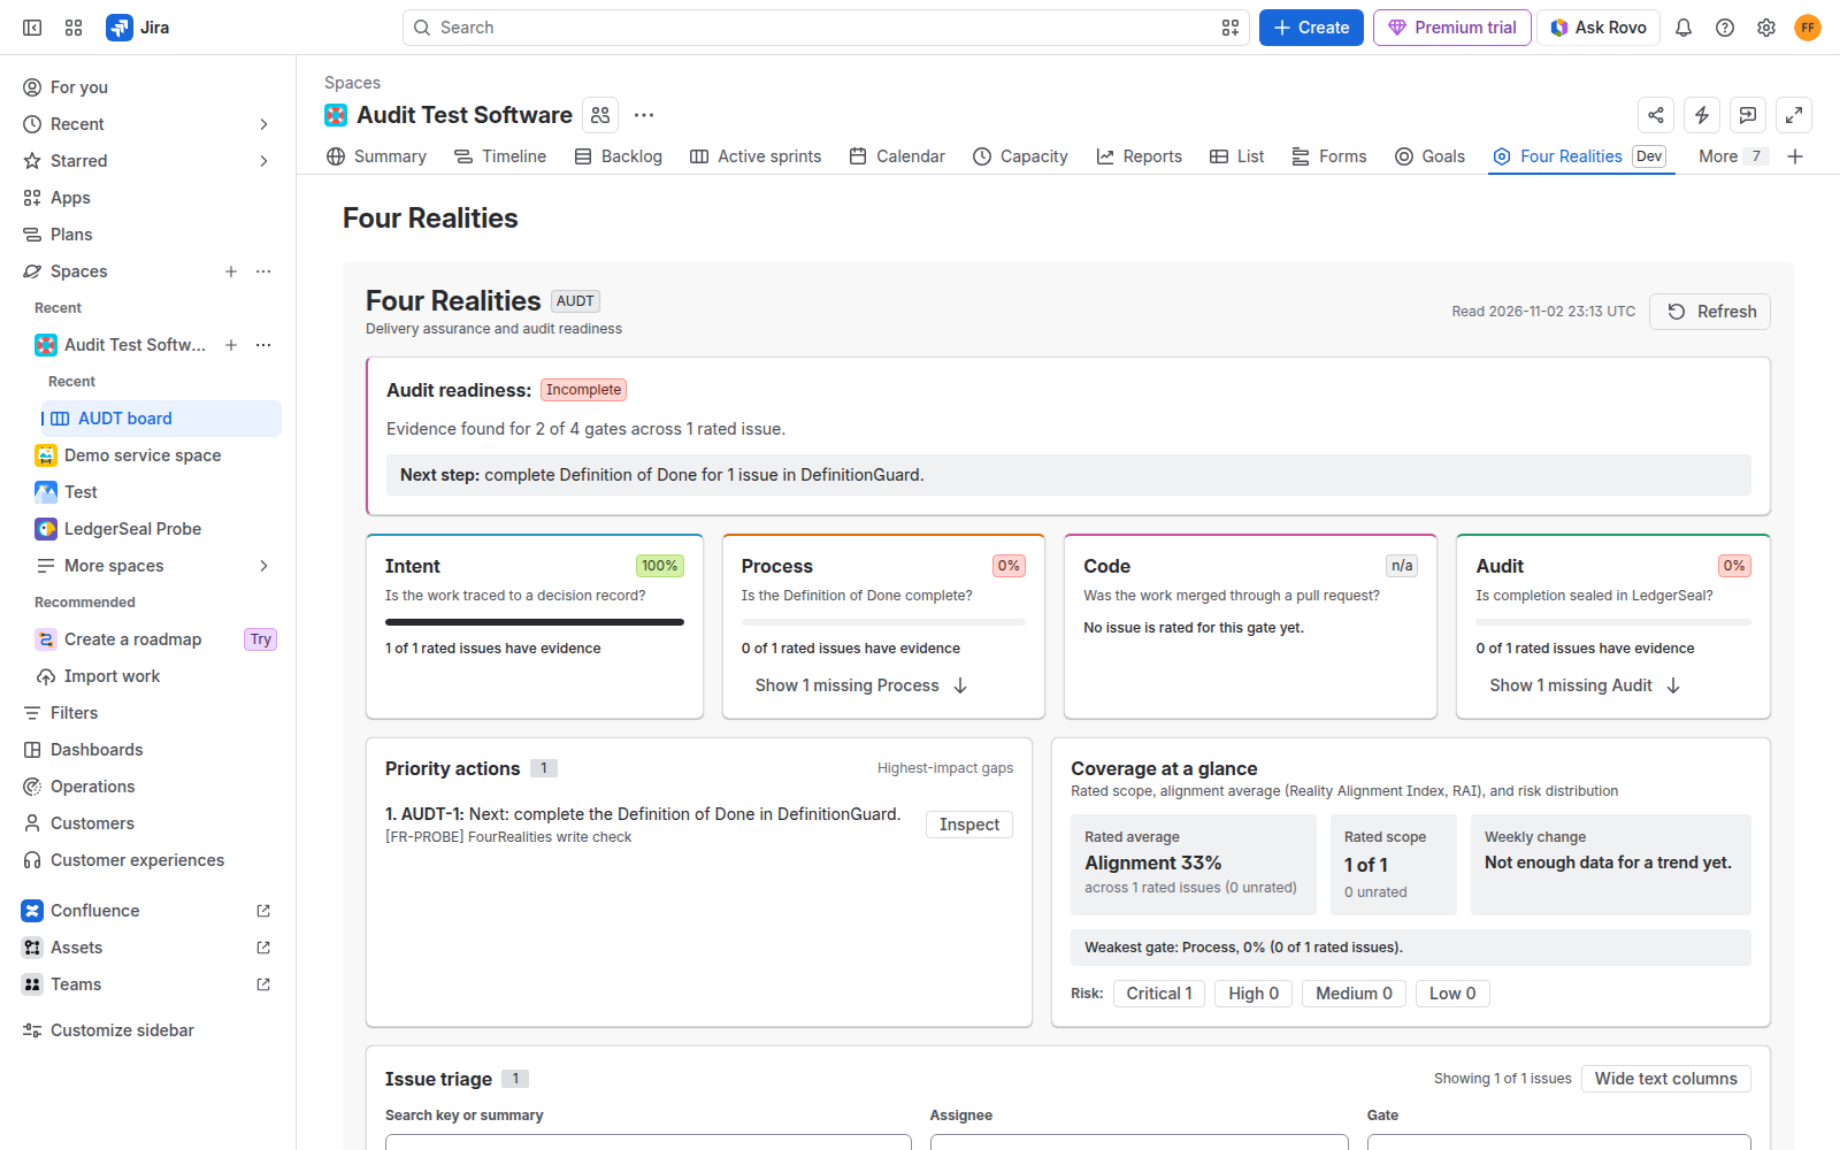
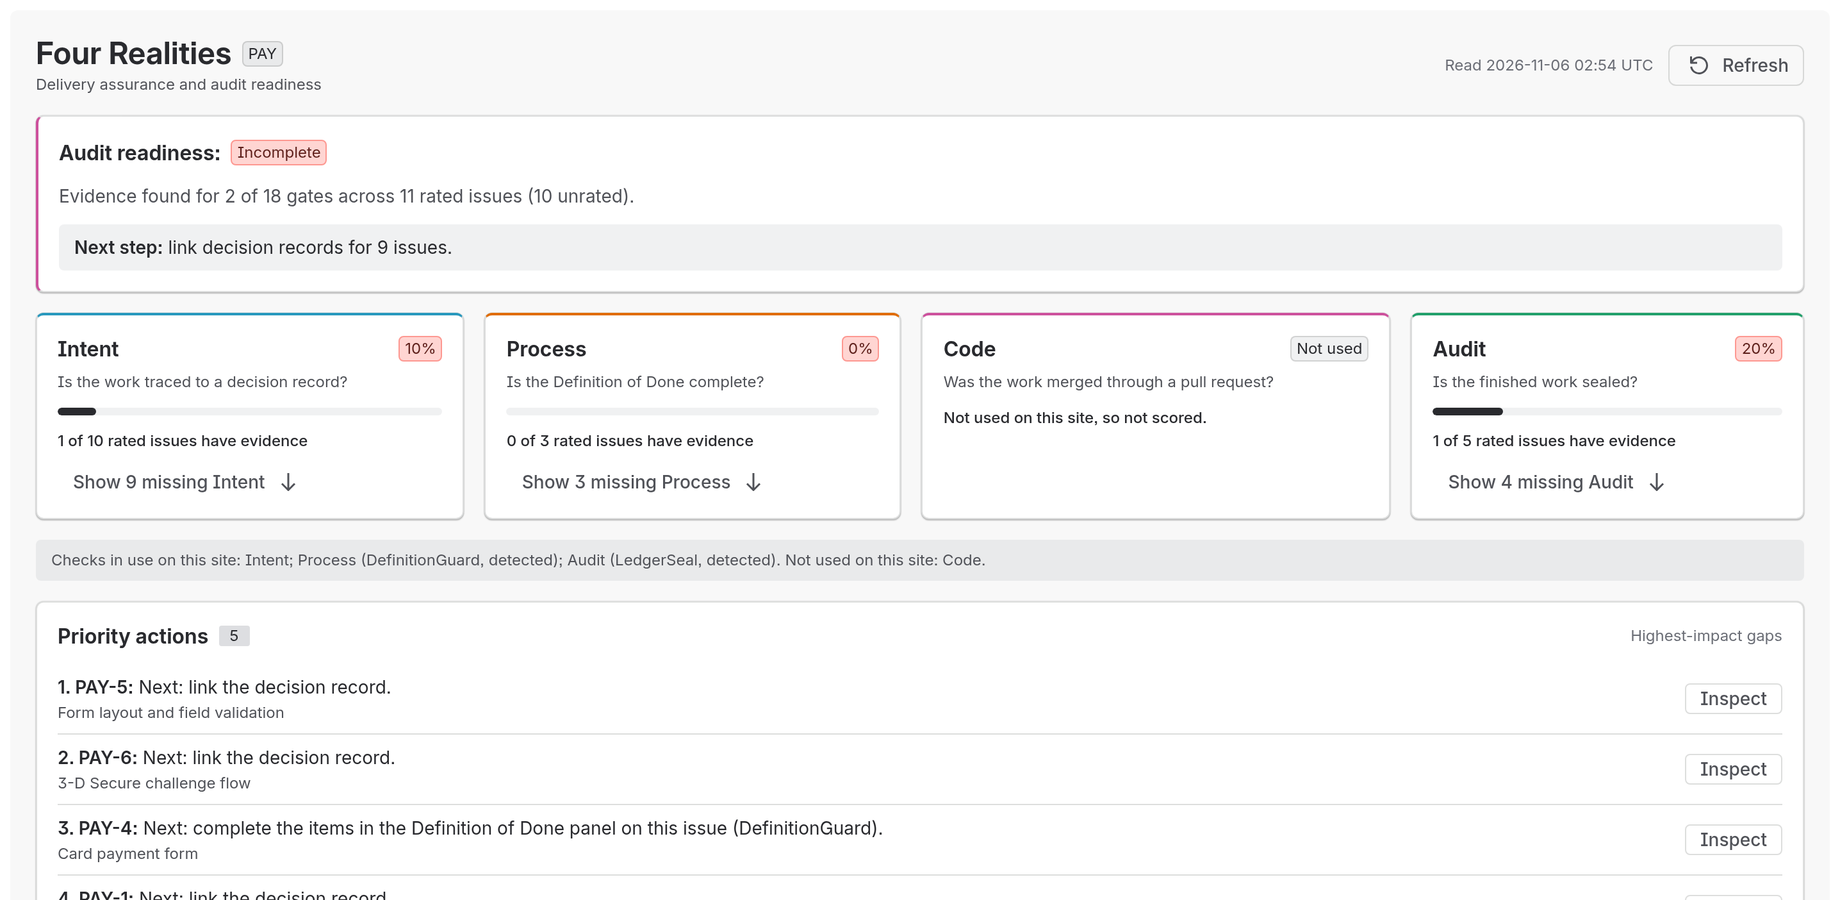
docs(fourrealities): guide, FAQ, product card and privacy match FourRealities 3.8
- Guide: the Process source is chosen by a Jira administrator; a
  DefinitionGuard or LedgerSeal record is scored only when its
  signature is verified, otherwise it is "Reported, not verified"; a
  check the site does not use is not scored; the gate authority admin
  page and approver groups; the next step names the sibling panels.
- New dashboard and issue panel screenshots and banner.
- FAQ: what FourRealities alone scores; which account ids it stores.
- Product card and user guide quick start: Process sources, checks
  not used are not scored.
- Privacy: account ids only where a rule needs them, no names, weekly
  report, closed accounts erased.

Refs: fourrealities-marketplace-fixes-2026-11 site changes 1-9

diff --git a/src/main/jbake/content/product/jira-governance/user-guide/fourrealities.html b/src/main/jbake/content/product/jira-governance/user-guide/fourrealities.html
@@ -19,19 +19,19 @@ og_image=product/jira-governance/fourrealities/banner.png
     <p>Delivery evidence for one piece of work is spread over several places. FourRealities checks four kinds of evidence for each issue and shows each one as a gate:</p>
     <ol>
         <li><strong>Intent:</strong> a link to a Confluence page on your site, or a link to an issue of a decision or specification type.</li>
-        <li><strong>Process:</strong> a Definition of Done record written by DefinitionGuard. A HeroCoders Checklists for Jira <code>checklist</code> issue property is read as a hint when no DefinitionGuard record exists.</li>
+        <li><strong>Process:</strong> the Definition of Done record of DefinitionGuard, or the checklist property of Checklists for Jira (HeroCoders), whichever a Jira administrator chooses. A DefinitionGuard record counts only when FourRealities verifies its signature.</li>
         <li><strong>Code:</strong> pull request count and state from the Jira Development field, which your GitHub, GitLab or Bitbucket integration for Jira populates.</li>
         <li><strong>Audit:</strong> an approval seal record written by LedgerSeal.</li>
     </ol>
-    <p>Each gate shows a state, for example <em>Evidence found</em>, <em>Evidence missing</em> or <em>Not applicable</em>, and names its source.
-        Records written by other apps are marked as not verified by FourRealities. Pull request state is marked as heuristic, because apps cannot read pull request approvals.
+    <p>Each check shows a state, for example <em>Evidence found</em>, <em>Evidence missing</em>, <em>Reported, not verified</em>, <em>Not used on this site</em> or <em>Not applicable</em>, and names its source.
+        A DefinitionGuard or LedgerSeal record is scored only when its signature is verified; a record FourRealities cannot verify is shown as <em>Reported, not verified</em> and is not scored. A check your site does not use is not scored. Pull request state is marked as heuristic, because apps cannot read pull request approvals.
         A merged pull request is not shown as reviewed.</p>
 </section>
 
 <section style="margin-bottom: 4rem">
     <h2 class="section-title">2. The Reality Alignment Index (RAI)</h2>
     <p>The <strong>Reality Alignment Index (RAI)</strong> is the share of rated gates with evidence found, from 0 to 100.
-        Only gates with evidence found or evidence missing are rated. Excepted, not applicable and needs-recheck gates are not counted.
+        Only checks with evidence found or evidence missing are scored. Reported, excepted, not applicable, not used and needs-recheck checks are not counted.
         The RAI is always shown after the gates and with its parts: click <strong>Why N%?</strong> in the issue panel to see them.</p>
     <p>Each rated issue gets a risk level from its RAI:</p>
     <ul>
@@ -44,12 +44,12 @@ og_image=product/jira-governance/fourrealities/banner.png
 
     <div style="margin: 2rem 0; text-align: center;">
         <img src="/images/product/jira-governance/fourrealities/01-dashboard.png" alt="FourRealities Project Dashboard" style="max-width: 100%; border-radius: 6px; border: 1px solid var(--border-subtle, #333);" />
-        <p style="font-size: 0.85rem; opacity: 0.8; margin-top: 0.5rem;">Figure 1: Project dashboard with audit readiness, the four gate cards, Priority actions and Coverage at a glance.</p>
+        <p style="font-size: 0.85rem; opacity: 0.8; margin-top: 0.5rem;">Figure 1: Project dashboard with audit readiness, the four check cards (Code "Not used" on a site with no pull request data), the checks in use and Priority actions.</p>
     </div>
 
     <div style="margin: 2rem 0; text-align: center;">
-        <img src="/images/product/jira-governance/fourrealities/02-rai-glance.png" alt="FourRealities Issue Panel" style="max-width: 100%; border-radius: 6px; border: 1px solid var(--border-subtle, #333);" />
-        <p style="font-size: 0.85rem; opacity: 0.8; margin-top: 0.5rem;">Figure 2: The Four Realities issue panel with the four gate statuses and the next step.</p>
+        <img src="/images/product/jira-governance/fourrealities/02-issue-panel.png" alt="FourRealities Issue Panel" style="max-width: 100%; border-radius: 6px; border: 1px solid var(--border-subtle, #333);" />
+        <p style="font-size: 0.85rem; opacity: 0.8; margin-top: 0.5rem;">Figure 2: The issue panel with the checks as a chain, the next step naming the Definition of Done panel, and the findings with their sources.</p>
     </div>
 </section>
 
@@ -87,7 +87,7 @@ og_image=product/jira-governance/fourrealities/banner.png
         <li><strong>Confluence:</strong> when you search in the <strong>Link decision record</strong> dialog, FourRealities calls the Confluence REST API of your own Atlassian site, as you, through Forge. It also reads Jira remote links that point to Confluence pages.</li>
         <li><strong>Storage:</strong> snapshots, Code exception events, rework reasons and site settings are kept in Atlassian Forge storage.</li>
     </ul>
-    <p>FourRealities has no settings page. With an inactive licence the app shows "Licence not active" and reads nothing.</p>
+    <p>Jira administrators set the evidence source of each check, the decision issue types and the approver groups in <strong>Jira settings &gt; Apps &gt; FourRealities gate authority</strong>. FourRealities stores account ids only where a rule needs them, reports them to Atlassian every week and erases the ids of closed accounts. With an inactive licence the app shows "Licence not active" and reads nothing.</p>
 </section>
 
 <section style="margin-bottom: 5rem">
@@ -95,9 +95,9 @@ og_image=product/jira-governance/fourrealities/banner.png
     <p>When an issue shows missing evidence, the issue panel names the next step. You can:</p>
     <ol>
         <li>Click <strong>Link decision record</strong>, search Confluence pages by title (or enter a page address and title), and click <strong>Add link</strong>. FourRealities adds a Jira remote link and the Intent gate updates.</li>
-        <li>Click <strong>Request Code exception</strong> for work that needs no pull request, and give a reason. A project or Jira administrator who is not you or the assignee must approve it. Until then the Code gate stays "Evidence missing". Administrators can also reject or revoke an exception, and the requester can withdraw it.</li>
+        <li>Click <strong>Request Code exception</strong> for work that needs no pull request, and give a reason. A project or Jira administrator, or a member of an approver group, who is not you or the assignee must approve it. Until then the Code gate stays "Evidence missing". Administrators can also reject or revoke an exception, and the requester can withdraw it.</li>
         <li>For a merged pull request, click <strong>Request retrospective review</strong> to post a comment on the issue asking for a review.</li>
-        <li>Use the links to open the LedgerSeal or DefinitionGuard panels. FourRealities never writes their records.</li>
+        <li>When Process or Audit is in use, the next step names the Definition of Done panel (DefinitionGuard) or the Approval Seal panel (LedgerSeal) on the issue. FourRealities never writes their records.</li>
         <li>Click <strong>Refresh</strong> to read the issue again.</li>
     </ol>
 </section>

diff --git a/src/main/jbake/content/product/jira-governance/faq.html b/src/main/jbake/content/product/jira-governance/faq.html
@@ -38,7 +38,8 @@ og_image=product/jira-governance/ledgerseal/banner.png
     <h3>Can I purchase apps individually, or do I need the whole suite?</h3>
     <p>Each app (LedgerSeal, DefinitionGuard, FourRealities, CascadePlan) is published as an independent Atlassian Marketplace app. 
         You can install only the specific capabilities your compliance framework demands (e.g. LedgerSeal for change control seals), 
-        or deploy all four to establish an end-to-end zero-trust governance layer.</p>
+        or deploy all four to establish an end-to-end zero-trust governance layer.
+        FourRealities alone uses the checks it can make on your site (Intent, and Code when your Git integration fills the Development field); Process and Audit show Not used on this site and are not scored until DefinitionGuard or LedgerSeal is in use.</p>
 </section>
 
 <section style="margin-bottom: 4rem">
@@ -59,7 +60,7 @@ og_image=product/jira-governance/ledgerseal/banner.png
     <p>CascadePlan stores Atlassian account ids only: of who froze a baseline, of who requested or reviewed a scope change, and of each person who works on a task through a Jira sub-task.
         It reports them each week to Atlassian's personal data reporting service and removes the id of a closed account.</p>
     <p>The other three apps store Atlassian account ids to record who did each action: LedgerSeal of who sealed, signed or revoked a seal (as pseudonymous tokens, with no display name),
-        DefinitionGuard of who ticked, waived or configured a Definition of Done item (as pseudonyms, reported each week to Atlassian, with the link to a closed account deleted), and FourRealities of who requested or approved a gate exception.
+        DefinitionGuard of who ticked, waived or configured a Definition of Done item (as pseudonyms, reported each week to Atlassian, with the link to a closed account deleted), and FourRealities of who requested or decided a Code exception, who gave a rework reason, and the assignee for the "My issues" filter.
         The <a href="/privacy" class="org-link org-link--inline">privacy policy</a> lists what each app stores.</p>
 </section>
 

diff --git a/src/main/jbake/content/product/jira-governance.html b/src/main/jbake/content/product/jira-governance.html
@@ -79,7 +79,7 @@ og_image=product/jira-governance/ledgerseal/banner.png
                 <img src="/images/product/jira-governance/fourrealities/icon.png" alt="FourRealities" style="width: 32px; height: 32px;" />
                 <h3 style="margin: 0;">FourRealities</h3>
             </div>
-            <p><strong>Delivery Integrity Across Four Realities.</strong> Checks each issue for evidence in four realities: Intent (a linked Confluence page or decision issue), Process (DefinitionGuard Definition of Done), Code (pull requests in the Jira Development field) and Audit (a LedgerSeal seal). Shows a Reality Alignment Index (RAI) per issue and project, and counts rework loops.</p>
+            <p><strong>Delivery Integrity Across Four Realities.</strong> Checks each issue for evidence in four realities: Intent (a linked Confluence page or decision issue), Process (a DefinitionGuard Definition of Done, signature verified, or a Checklists for Jira checklist), Code (pull requests in the Jira Development field) and Audit (a LedgerSeal seal). Shows a Reality Alignment Index (RAI) per issue and project, and counts rework loops. Checks your site does not use are not scored.</p>
             <div style="margin-top: 1.5rem;">
                 <a href="/product/jira-governance/user-guide/fourrealities.html" class="org-link org-link--inline org-link--internal">Explore FourRealities</a>
             </div>

diff --git a/src/main/jbake/content/product/jira-governance/user-guide/index.html b/src/main/jbake/content/product/jira-governance/user-guide/index.html
@@ -54,7 +54,7 @@ og_image=product/jira-governance/ledgerseal/banner.png
                 <li>Open <strong>Four Realities</strong> in the project's navigation. The first open builds the project's view; after that it is refreshed each day.</li>
                 <li>Link each issue to its decision record: a Confluence page on your site, or a decision issue.</li>
                 <li>Connect GitHub, Bitbucket or GitLab to Jira if you have not, so the Code check sees pull requests.</li>
-                <li>Read the issue's four checks. The Process check looks for a Definition of Done record and the Audit check for an approval seal; on a site without DefinitionGuard and LedgerSeal, those two show as missing.</li>
+                <li>Read the issue's four checks. The Process check looks for a Definition of Done record and the Audit check for an approval seal; on a site without DefinitionGuard and LedgerSeal, those two show <em>Not used on this site</em> and are not scored.</li>
             </ol>
             <p><a href="/product/jira-governance/user-guide/fourrealities" class="org-link org-link--inline org-link--internal">FourRealities guide</a></p>
         </div>

diff --git a/src/main/jbake/content/privacy.html b/src/main/jbake/content/privacy.html
@@ -116,7 +116,7 @@ status=published
     <h3 style="margin-top: 1.5rem">FourRealities</h3>
     <ul style="line-height: 1.9; margin-top: 0.5rem">
         <li><strong>What it accesses and stores:</strong> it reads the issue, its Development field and the issue properties of LedgerSeal and DefinitionGuard, and searches the Confluence pages of your own site. It stores snapshots, exception events, rework reasons and site settings in Forge storage.</li>
-        <li><strong>Personal data:</strong> the Atlassian account id of the person who recorded an exception.</li>
+        <li><strong>Personal data:</strong> Atlassian account ids only where a rule needs them: who requested or decided a Code exception, who gave a rework reason, and the assignee, for the "My issues" filter. No names are stored; the dashboard reads names from Jira each time it shows them. FourRealities reports these ids to Atlassian every week and erases the ids of closed accounts; the panel then shows "a former user".</li>
     </ul>
 </section>
 
